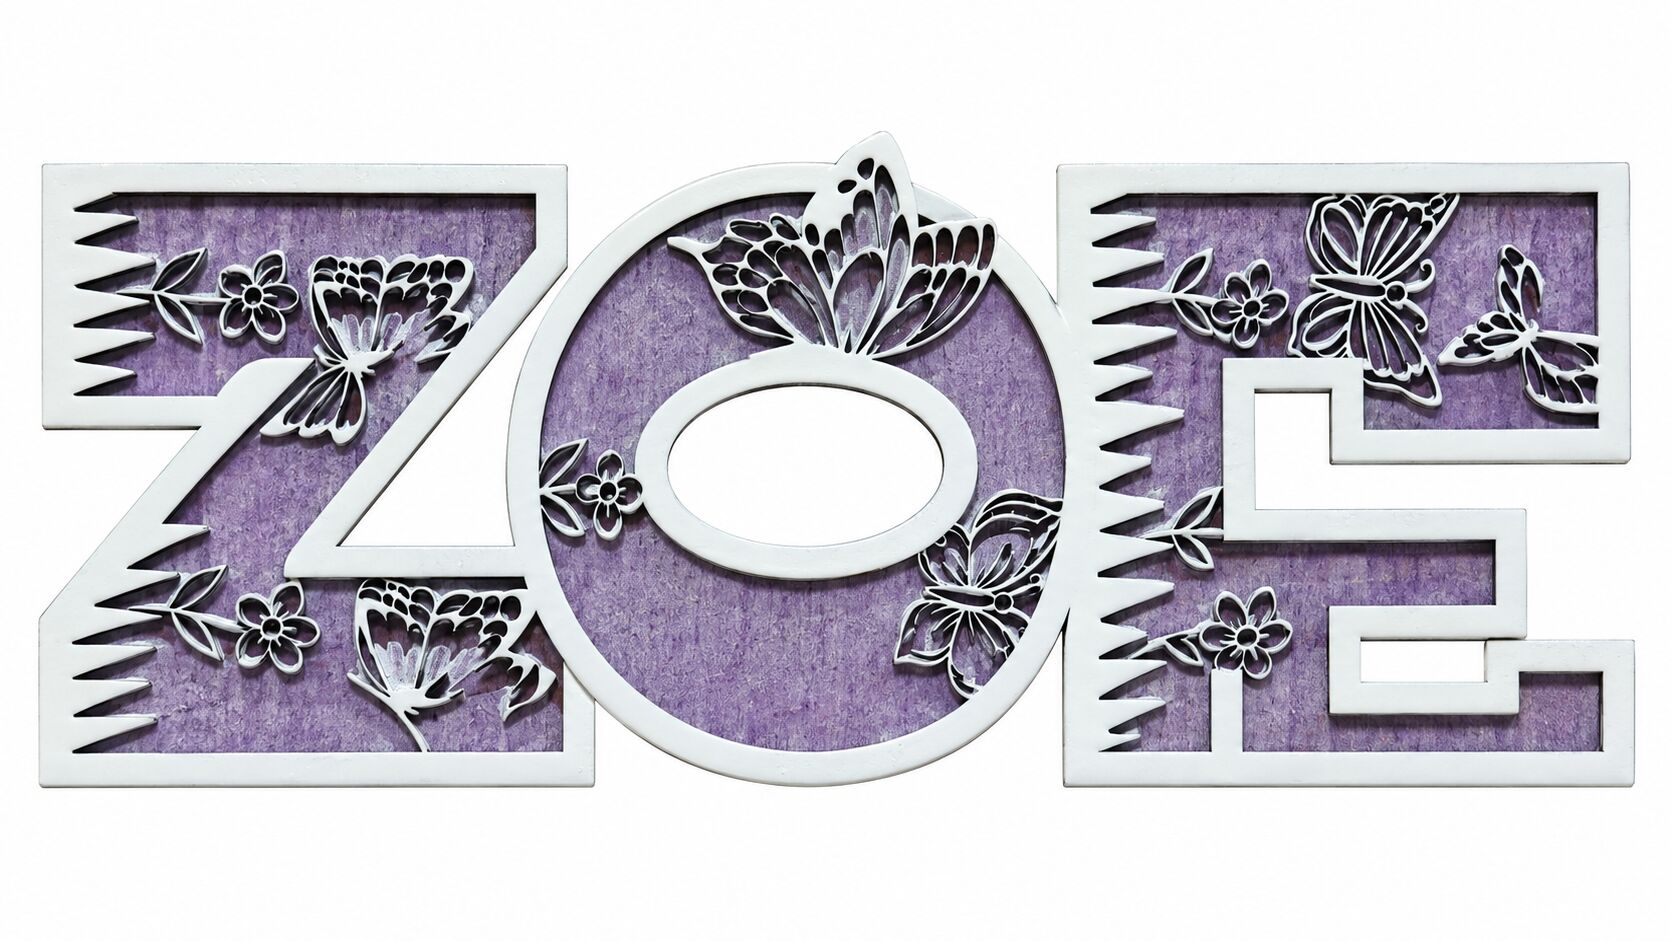
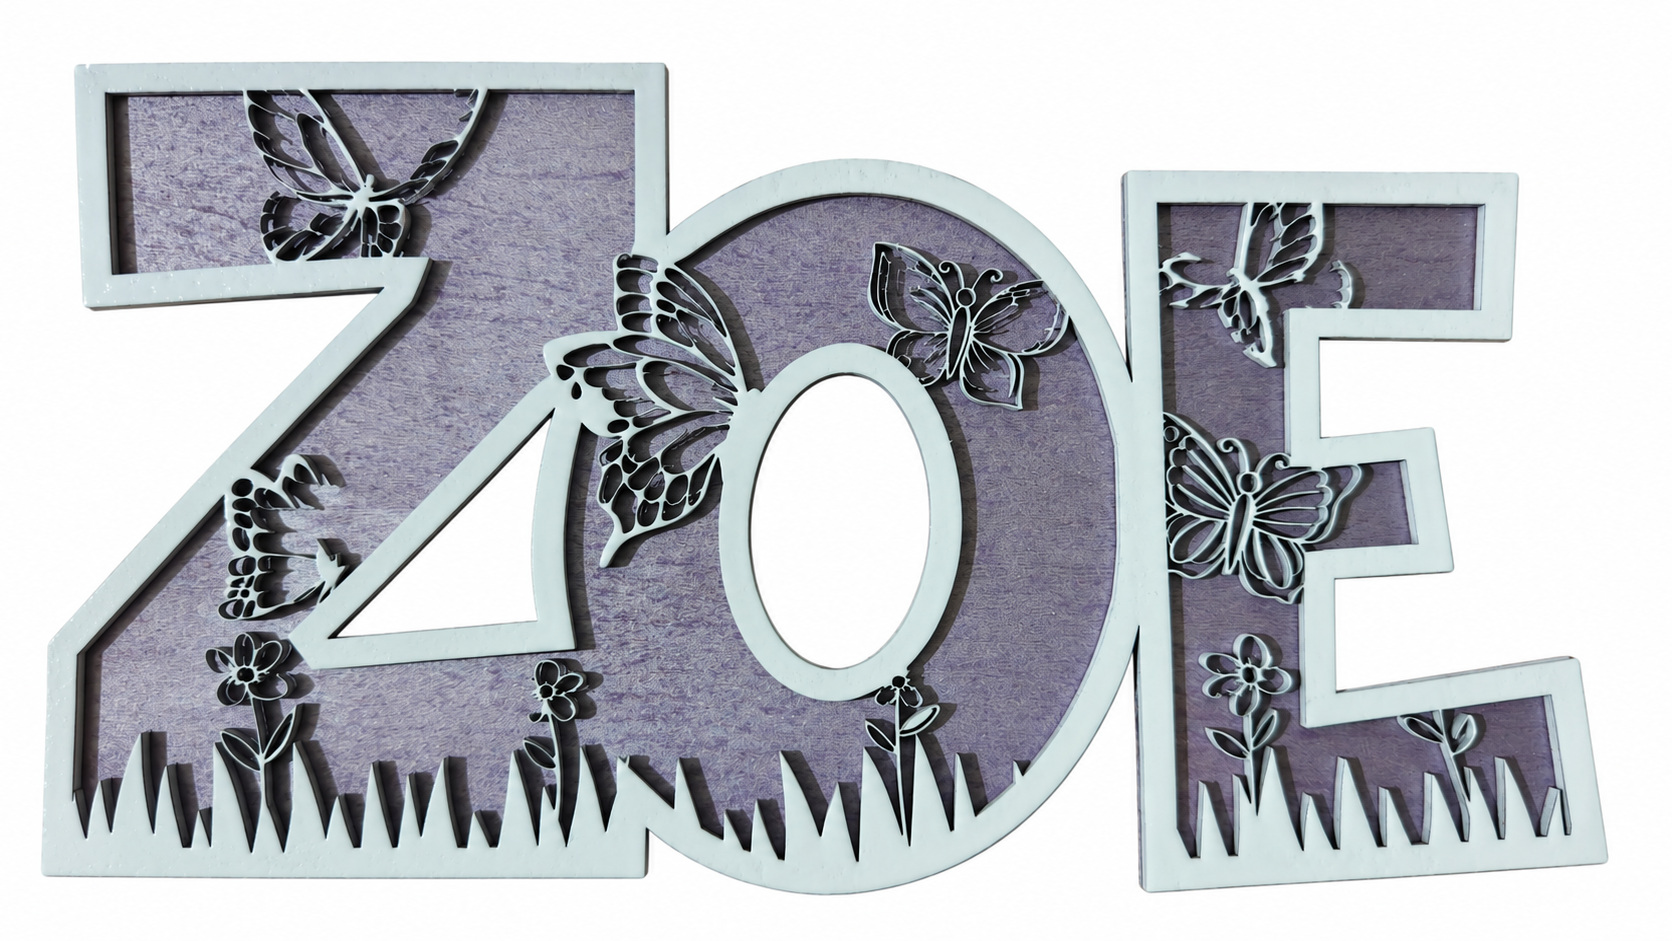
Replace Zoe photo with clear background-removed image

diff --git a/index.html b/index.html
@@ -219,7 +219,7 @@
 <figure class="natale-card"><a href="images/altri-lavori/cuore-papa.webp" target="_blank" rel="noopener" aria-label="Ingrandisci: Papà · Ti vogliamo bene"><img src="images/altri-lavori/cuore-papa.webp" alt="Papà · Ti vogliamo bene" loading="lazy" decoding="async"></a><figcaption><h5>Papà · Ti vogliamo bene</h5></figcaption></figure>
 <figure class="natale-card"><a href="images/altri-lavori/grazie-maestra.webp" target="_blank" rel="noopener" aria-label="Ingrandisci: Puzzle · Grazie Maestra"><img src="images/altri-lavori/grazie-maestra.webp" alt="Puzzle · Grazie Maestra" loading="lazy" decoding="async"></a><figcaption><h5>Puzzle · Grazie Maestra</h5></figcaption></figure>
 <figure class="natale-card"><a href="images/altri-lavori/souvenir-abruzzo.webp" target="_blank" rel="noopener" aria-label="Ingrandisci: Souvenir in legno · Abruzzo"><img src="images/altri-lavori/souvenir-abruzzo.webp" alt="Souvenir in legno · Abruzzo" loading="lazy" decoding="async"></a><figcaption><h5>Souvenir in legno · Abruzzo</h5></figcaption></figure></div></div><div id="nomi-personalizzati" style="scroll-margin-top:100px;margin-bottom:70px"><h4 class="natale-heading">Nomi personalizzati</h4><p class="compare-help">Un nome, tantissimi modi di realizzarlo. Creo scritte e decorazioni personalizzate con caratteri, colori, forme e temi diversi: dalle scritte da appoggio alle targhe, fino alle cornici portafoto. Raccontami la tua idea e realizzerò una creazione su misura per te.</p><div class="natale-grid"><figure class="natale-card"><a href="images/nomi/foto-01.jpg" target="_blank" rel="noopener" aria-label="Ingrandisci: Matilde Isabel · Volpina"><img src="images/nomi/foto-01.jpg" alt="Matilde Isabel · Volpina" loading="lazy" decoding="async"></a><figcaption><h5>Matilde Isabel · Volpina</h5></figcaption></figure>
-<figure class="natale-card"><a href="images/nomi/foto-02.jpg" target="_blank" rel="noopener" aria-label="Ingrandisci: Zoe · Farfalle"><img src="images/nomi/foto-02.jpg" alt="Zoe · Farfalle" loading="lazy" decoding="async"></a><figcaption><h5>Zoe · Farfalle</h5></figcaption></figure>
+<figure class="natale-card"><a href="images/nomi/foto-02.jpg?v=zoe-20260918" target="_blank" rel="noopener" aria-label="Ingrandisci: Zoe · Farfalle"><img src="images/nomi/foto-02.jpg?v=zoe-20260918" alt="Zoe · Farfalle" loading="lazy" decoding="async"></a><figcaption><h5>Zoe · Farfalle</h5></figcaption></figure>
 <figure class="natale-card"><a href="images/nomi/foto-03.jpg" target="_blank" rel="noopener" aria-label="Ingrandisci: Martina · Stelle e palloncino"><img src="images/nomi/foto-03.jpg" alt="Martina · Stelle e palloncino" loading="lazy" decoding="async"></a><figcaption><h5>Martina · Stelle e palloncino</h5></figcaption></figure>
 <figure class="natale-card"><a href="images/nomi/foto-04.jpg" target="_blank" rel="noopener" aria-label="Ingrandisci: Daniel · Auto da corsa"><img src="images/nomi/foto-04.jpg" alt="Daniel · Auto da corsa" loading="lazy" decoding="async"></a><figcaption><h5>Daniel · Auto da corsa</h5></figcaption></figure>
 <figure class="natale-card"><a href="images/nomi/foto-05.jpg" target="_blank" rel="noopener" aria-label="Ingrandisci: Alessia · Scritta da appoggio"><img src="images/nomi/foto-05.jpg" alt="Alessia · Scritta da appoggio" loading="lazy" decoding="async"></a><figcaption><h5>Alessia · Scritta da appoggio</h5></figcaption></figure>
